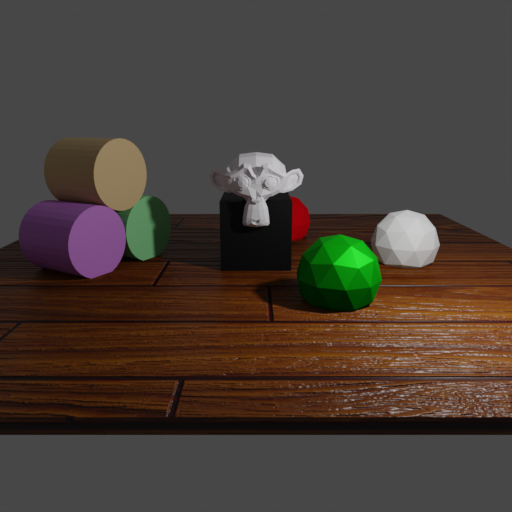
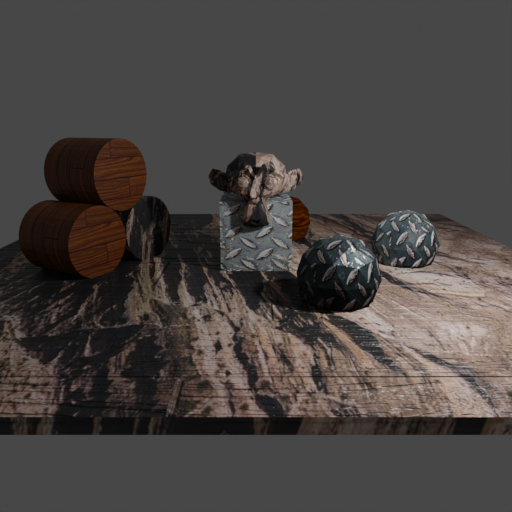
refactor(example): update readme and config

diff --git a/examples/material_manipulation/README.md b/examples/material_manipulation/README.md
@@ -13,12 +13,12 @@ In this example we demonstrate how to select materials in the scene using `gette
 Execute this in the BlenderProc main directory:
 
 ```
-python run.py examples/material_manipulation/config.yaml examples/material_manipulation/scene.obj examples/material_manipulation/sample_textures/*.png examples/material_manipulation/output
+python run.py examples/material_manipulation/config.yaml examples/material_manipulation/scene.obj examples/material_manipulation examples/material_manipulation/output
 ```
 
 * `examples/material_manipulation/config.yaml`: path to the configuration file with pipeline configuration.
 * `examples/material_manipulation/scene.obj`: path to the object file with the basic scene.
-* `examples/material_manipulation/*.jpg`: path to a folder with .jpg textures to be used in the sampling process.
+* `examples/material_manipulation`: path to a folder with .jpg textures to be used in the sampling process.
 * `examples/material_manipulation/output`: path to the output directory.
 
 ## Visualization
@@ -34,8 +34,7 @@ python scripts/visHdf5Files.py examples/material_manipulation/output/0.hdf5
 * Loads `scene.obj`: `loader.ObjectLoader` module.
 * Creates a point light: `lighting.LightLoader` module.
 * Sets two camera positions: `camera.CameraLoader` module.
-* Selects objects based on the condition: `material.MaterialManipulator` module.
-* Change some parameters of the selected entities: `material.MaterilManipulator` module.
+* Selects materials based on the condition and changes some parameters of the selected materials: `material.MaterialManipulator` module.
 * Renders rgb: `renderer.RgbRenderer` module.
 * Writes the output to .hdf5 containers: `writer.Hdf5Writer` module.
 
@@ -96,7 +95,7 @@ The <float> value is used to scale the color input the texture up or down to inc
 If one wants to have values sampled once and have them set to defined attribute/properties, set `"mode": "once_for_all"` at the end of this section. 
 By the default it is `"once_for_each"`.
 
-The second `MaterialManipulator` module is yet again selecting a material: `Material.006`, but this time it uses a `sampler.Path` to randomly choose one `color` image texture from the `sample_textures` folder to assign to the chosen material.
+The second `MaterialManipulator` module is yet again selecting a material: `Material.*` which equals to selecting all the materials in the scene, but this time it uses a `sampler.Path` to randomly choose one `color` .jpg image texture from the example folder to assign to the chosen material.
 
 ## More examples
 
